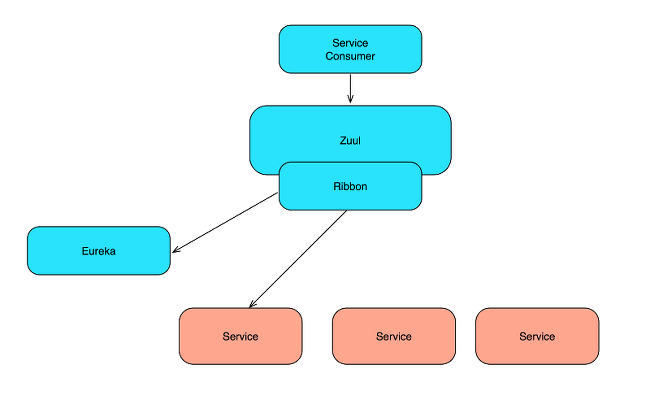
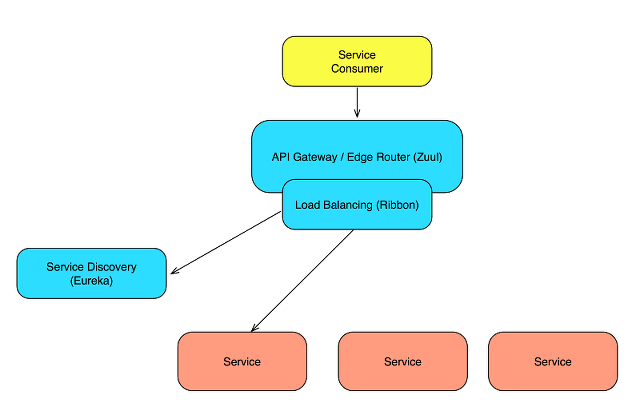
Update image with colors

Changed region(s): [[0.0, 0.0608, 0.75, 0.7595], [0.25, 0.638, 0.9688, 0.9722], [0.4688, 0.6076, 0.5312, 0.638]]

diff --git a/presentation/part-two.html b/presentation/part-two.html
@@ -30,14 +30,14 @@
 
 class: center, middle
 
-# Part Two: Cloud Infrastructure
+# Part Two: Cloud Native Applications
 
 ---
 
 # Getting Cloud Native
 
 Cloud Native Apps : 
- -  1..N Stateless Processes
+ -  1..N Stateless Processes. Share nothing, backing services.
 --
 
  -  Scale out horizontally
@@ -47,6 +47,14 @@ Cloud Native Apps :
 --
 
  -  Built expecting failure
+
+--
+ - Once again, see [12 Factor Applications](http://12factor.net/)
+---
+
+# Cloud Infrastructure
+
+![Default-aligned stack](image/netflix-stack.png)
 ---
 
 # Spring Cloud 
@@ -191,10 +199,8 @@ public class ZuulServer {
  - Round robin, response time weighted and random load balancing
  - Feign REST client for use in services
  - Has a Direct API
---
 
 ![Default-aligned stack](image/netflix-stack.png)
- 
 ---
 
 # Expecting services to fail
